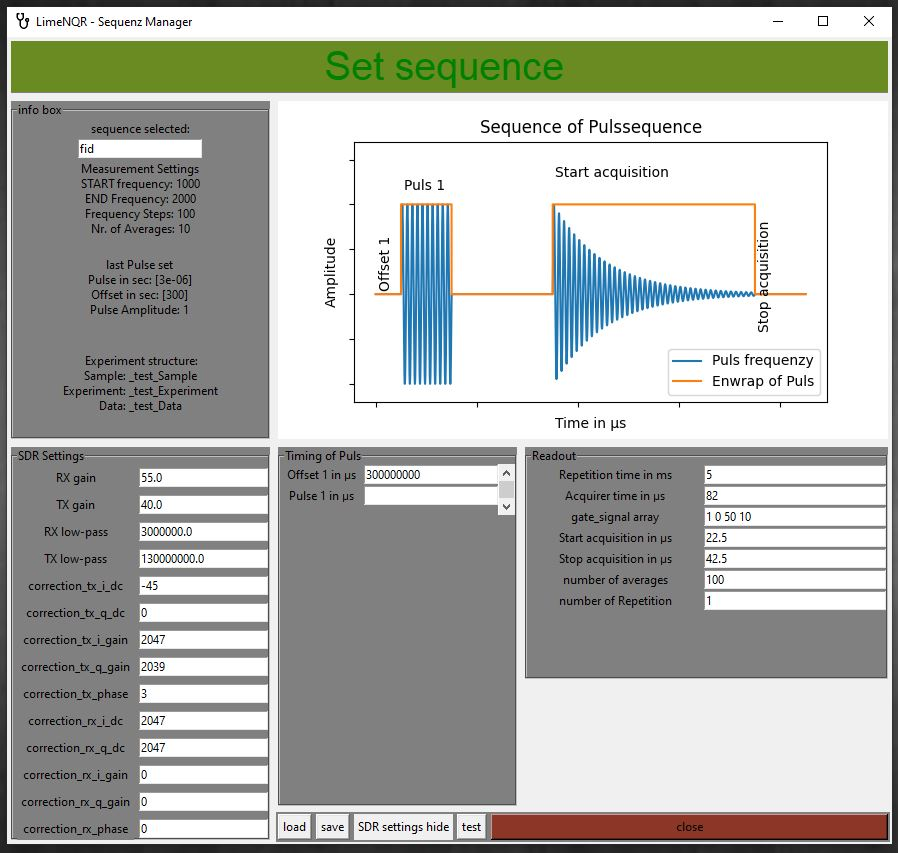
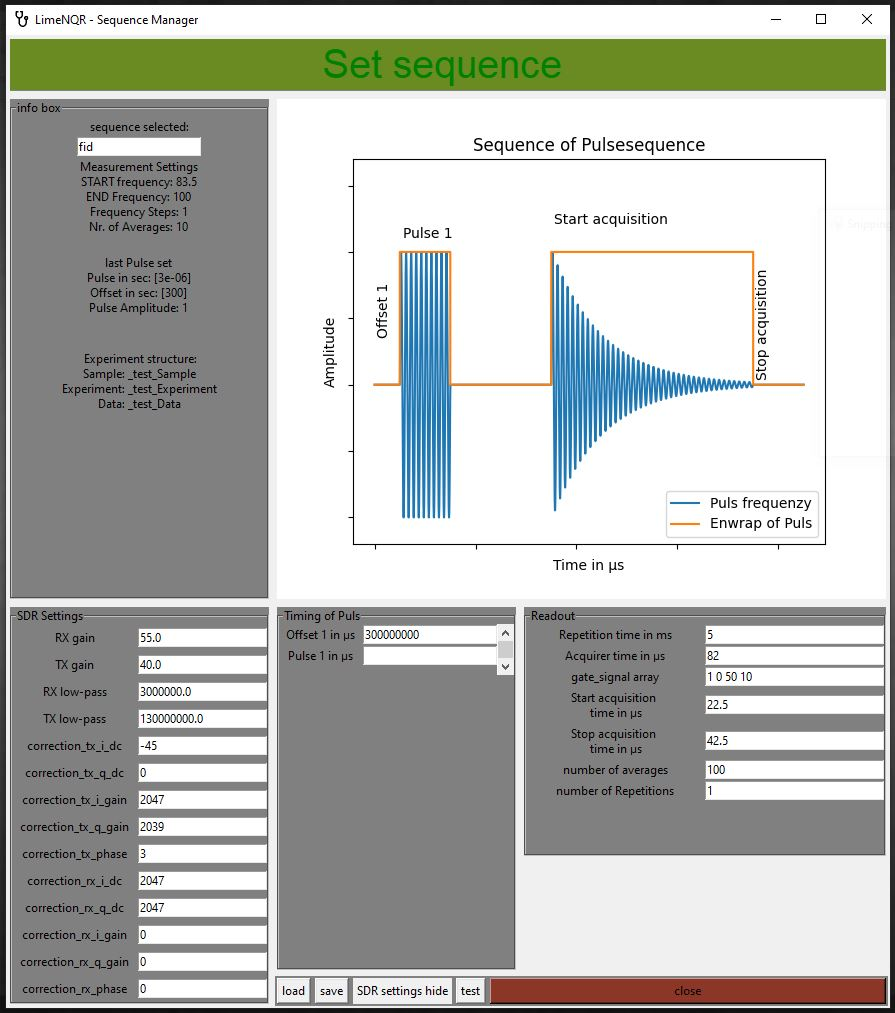
naming

Changed region(s): [[0.0, 0.0, 1.0, 1.0]]

diff --git a/program/win_sequenz.py b/program/win_sequenz.py
@@ -165,7 +165,7 @@ class Window_seq:
         # sequenz window
         logger_seq.info("start win_sequenz.py start class logger_seq init")
         self.win_seq = tk.Tk()
-        self.win_seq.title("LimeNQR - Sequenz Manager")
+        self.win_seq.title("LimeNQR - Sequence Manager")
         # self.win_seq.wm_iconbitmap(bitmap=logo_path)
         try:
             self.win_seq.wm_iconbitmap(
@@ -347,7 +347,7 @@ class Window_seq:
                                       textcoords="offset points", xytext=(2, -60), ha='left', rotation=90)
                     off_bool = False
                 else:
-                    fig_plot.annotate('Puls '+str(int((count+1)/2)), (point_summ, 1),
+                    fig_plot.annotate('Pulse '+str(int((count+1)/2)), (point_summ, 1),
                                       textcoords="offset points", xytext=(2, 10), ha='left')
                     off_bool = True
                 point_summ += point
@@ -359,7 +359,7 @@ class Window_seq:
 
             if amplitude < 1.5:
                 fig_plot.set_ylim(-1.2, 1.7)
-            fig_plot.set_title("Sequence of Pulssequence")
+            fig_plot.set_title("Sequence of Pulse Sequence")
             fig_plot.set_xlabel("Time in µs")
             fig_plot.set_ylabel("Amplitude")
             fig_plot.set_yticklabels([])
@@ -680,7 +680,7 @@ class Window_seq:
 
         # blank_time
         lable_blank_time = tk.Label(
-            frame_readout, text="Start acquisition in µs", bg='grey')
+            frame_readout, text="Start acquisition \n time in µs", bg='grey')
         lable_blank_time.grid(row=4, column=0, sticky="ew")
 
         self.blank_time_input = tk.Entry(
@@ -690,7 +690,7 @@ class Window_seq:
 
         # window_time
         lable_window_time = tk.Label(
-            frame_readout, text="Stop acquisition in µs", bg='grey')
+            frame_readout, text="Stop acquisition \n time in µs", bg='grey')
         lable_window_time.grid(row=5, column=0, sticky="ew")
 
         self.window_time_input = tk.Entry(
@@ -710,7 +710,7 @@ class Window_seq:
 
         # repetition_num
         lable_repetition_num = tk.Label(
-            frame_readout, text="number of Repetition", bg='grey')
+            frame_readout, text="number of Repetitions", bg='grey')
         lable_repetition_num.grid(row=7, column=0, sticky="ew")
 
         self.repetition_num_input = tk.Entry(
